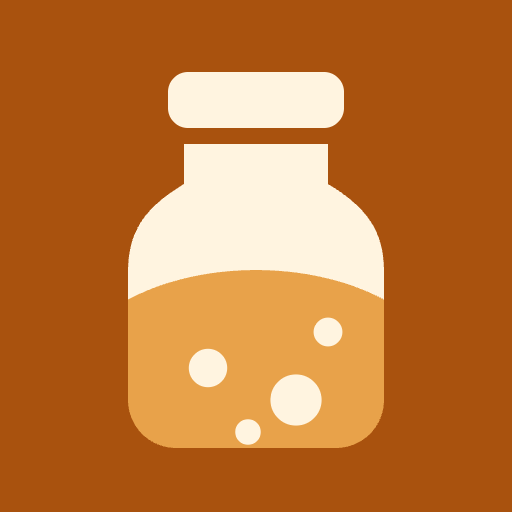
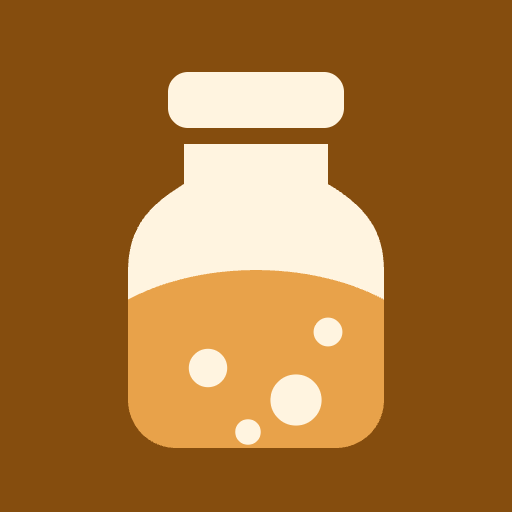
Restyle: Soft clay skin and accent

diff --git a/src/styles/global.css b/src/styles/global.css
@@ -1,5 +1,7 @@
 @import "tailwindcss" source(none);
 @source "../";
+/* Skins: one file per skin, switched by data-skin on <html>. */
+@import "./skin-clay.css";
 @custom-variant dark (&:where([data-theme="dark"], [data-theme="dark"] *));
 
 @theme inline {
@@ -11,6 +13,7 @@
   --color-ink: var(--ink);
   --color-muted: var(--muted);
   --color-line: var(--line);
+  --color-edge: var(--edge);
   --font-sans: ui-sans-serif, system-ui, -apple-system, "Segoe UI", Roboto, "Helvetica Neue", Arial, sans-serif;
   --font-serif: ui-serif, "Iowan Old Style", "Palatino Linotype", Palatino, Georgia, Cambria, serif;
   --font-mono: ui-monospace, "SF Mono", Menlo, Consolas, monospace;
@@ -23,6 +26,8 @@
   --ink: #1d1a16;
   --muted: #5f5850;
   --line: #e4dccb;
+  /* Control edges (inputs, buttons) need 3:1 against the page (WCAG 1.4.11). Card borders stay soft. */
+  --edge: #878c93;
   --brand-ink: color-mix(in oklab, var(--brand) 82%, black);
   --brand-soft: color-mix(in oklab, var(--brand) 10%, var(--paper));
 }
@@ -33,13 +38,14 @@
   --ink: #f0ece4;
   --muted: #aaa398;
   --line: #34302a;
+  --edge: #6b7078;
   --brand-ink: color-mix(in oklab, var(--brand) 55%, white);
   --brand-soft: color-mix(in oklab, var(--brand) 18%, var(--paper));
 }
 
 html { scroll-padding-top: 5rem; }
 body { background: var(--paper); color: var(--ink); font-family: var(--font-sans); -webkit-font-smoothing: antialiased; text-rendering: optimizeLegibility; }
-:focus-visible { outline: 2px solid var(--brand-ink); outline-offset: 2px; border-radius: 4px; }
+:focus-visible { outline: 3px solid var(--brand-ink); outline-offset: 2px; border-radius: 4px; }
 @media (prefers-reduced-motion: reduce) { * { transition: none !important; animation: none !important; scroll-behavior: auto !important; } }
 
 /* Long-form text: used by article and legal pages */
@@ -62,11 +68,11 @@ body { background: var(--paper); color: var(--ink); font-family: var(--font-sans
 
 .tiles { display: grid; grid-template-columns: repeat(3, 1fr); gap: 0.5rem; }
 @media (min-width: 40rem) { .tiles { grid-template-columns: repeat(5, 1fr); } }
-.tiles span { display: flex; min-height: 2.75rem; align-items: center; justify-content: center; border: 1px solid var(--line); border-radius: 0.75rem; background: var(--paper); font-weight: 600; font-variant-numeric: tabular-nums; }
+.tiles span { display: flex; min-height: 2.75rem; align-items: center; justify-content: center; border: 1px solid var(--edge); border-radius: 0.75rem; background: var(--paper); font-weight: 600; font-variant-numeric: tabular-nums; }
 .tiles input:checked + span { border-color: var(--brand); background: var(--brand); color: #fff; }
 .seg input:focus-visible + span, .tiles input:focus-visible + span { outline: 2px solid var(--brand-ink); outline-offset: 2px; }
 
-.field { display: block; width: 100%; min-height: 3rem; padding: 0 0.875rem; border: 1px solid var(--line); border-radius: 0.75rem; background: var(--paper); color: var(--ink); font-size: 1rem; font-variant-numeric: tabular-nums; }
+.field { display: block; width: 100%; min-height: 3rem; padding: 0 0.875rem; border: 1px solid var(--edge); border-radius: 0.75rem; background: var(--paper); color: var(--ink); font-size: 1rem; font-variant-numeric: tabular-nums; }
 .field:focus { outline: none; border-color: var(--brand); box-shadow: 0 0 0 3px color-mix(in oklab, var(--brand) 28%, transparent); }
 .field:disabled { opacity: 0.7; }
 .field[aria-invalid="true"] { border-color: #b91c1c; }
@@ -74,10 +80,10 @@ body { background: var(--paper); color: var(--ink); font-family: var(--font-sans
 input[type="number"] { -moz-appearance: textfield; appearance: textfield; }
 input[type="number"]::-webkit-outer-spin-button, input[type="number"]::-webkit-inner-spin-button { -webkit-appearance: none; margin: 0; }
 
-.chip { min-height: 2.75rem; padding: 0 0.875rem; border: 1px solid var(--line); border-radius: 999px; background: var(--paper); color: var(--ink); font-size: 0.875rem; font-weight: 600; }
+.chip { min-height: 2.75rem; padding: 0 0.875rem; border: 1px solid var(--edge); border-radius: 999px; background: var(--paper); color: var(--ink); font-size: 0.875rem; font-weight: 600; }
 .chip:hover { border-color: var(--brand); }
-.chip[aria-pressed="true"] { border-color: var(--brand); background: var(--brand-soft); color: var(--brand-ink); }
-.step-btn { display: inline-flex; width: 3rem; height: 3rem; flex: none; align-items: center; justify-content: center; border: 1px solid var(--line); border-radius: 0.75rem; background: var(--paper); color: var(--ink); font-size: 1.5rem; line-height: 1; }
+.chip[aria-pressed="true"] { border-color: var(--brand-ink); background: var(--brand-soft); color: var(--brand-ink); }
+.step-btn { display: inline-flex; width: 3rem; height: 3rem; flex: none; align-items: center; justify-content: center; border: 1px solid var(--edge); border-radius: 0.75rem; background: var(--paper); color: var(--ink); font-size: 1.5rem; line-height: 1; }
 .step-btn:hover { border-color: var(--brand); }
 .lbl { display: block; margin-bottom: 0.375rem; font-size: 0.875rem; font-weight: 650; }
 .hint { margin-top: 0.375rem; font-size: 0.875rem; color: var(--muted); }

diff --git a/src/styles/skin-clay.css b/src/styles/skin-clay.css
@@ -1,0 +1,57 @@
+/* Skin: Soft clay (warm, rounded, puffy cards). Active when <html data-skin="clay">.
+   Tokens first, then a few surface rules. Never put clay on data tables. */
+:root[data-skin="clay"] {
+  --font-sans: ui-rounded, "SF Pro Rounded", "Nunito", "Varela Round", ui-sans-serif, system-ui, -apple-system, "Segoe UI", Roboto, "Helvetica Neue", Arial, sans-serif;
+  --font-serif: var(--font-sans);
+  --radius-xl: 20px;
+  --radius-2xl: 30px;
+  --paper: color-mix(in oklab, var(--brand) 7%, #f5f3f1);
+  --card: color-mix(in oklab, var(--brand) 3%, #ffffff);
+  --ink: #1f1a1d;
+  --muted: #5c5559;
+  --line: color-mix(in oklab, var(--brand) 14%, #e4e0e2);
+  --edge: color-mix(in srgb, var(--brand) 30%, #8a8487);
+  --input-bg: color-mix(in oklab, var(--brand) 6%, #f1efed);
+  --brand-ink: color-mix(in oklab, var(--brand) 85%, black);
+  --brand-soft: color-mix(in oklab, var(--brand) 16%, #ffffff);
+  --card-shadow: 0 18px 40px -16px color-mix(in oklab, var(--brand) 35%, transparent), inset 0 -6px 0 color-mix(in oklab, var(--brand) 8%, transparent), inset 0 2px 0 #fff;
+  --panel-shadow: 0 8px 18px -10px color-mix(in oklab, var(--brand) 30%, transparent), inset 0 2px 0 #fff;
+  --result-shadow: 0 10px 22px -12px color-mix(in oklab, var(--brand) 45%, transparent), inset 0 -4px 0 color-mix(in oklab, var(--brand) 12%, transparent), inset 0 2px 0 rgb(255 255 255 / .9);
+  --btn-shadow: 0 6px 14px -6px color-mix(in oklab, var(--brand) 70%, transparent), inset 0 -3px 0 rgb(0 0 0 / .18), inset 0 2px 0 rgb(255 255 255 / .25);
+  --control-shadow: 0 4px 10px -6px color-mix(in oklab, var(--brand) 40%, transparent), inset 0 -2px 0 color-mix(in oklab, var(--brand) 10%, transparent), inset 0 1px 0 #fff;
+  --inset-shadow: inset 0 2px 5px color-mix(in oklab, var(--brand) 14%, transparent);
+}
+:root[data-skin="clay"][data-theme="dark"] {
+  --paper: color-mix(in oklab, var(--brand) 9%, #141215);
+  --card: color-mix(in oklab, var(--brand) 9%, #1f1c21);
+  --ink: #f1edf0;
+  --muted: #b4adb2;
+  --line: color-mix(in oklab, var(--brand) 14%, #33303a);
+  --edge: color-mix(in srgb, var(--brand) 20%, #8a8388);
+  --input-bg: color-mix(in oklab, var(--brand) 6%, #161418);
+  --brand-ink: color-mix(in oklab, var(--brand) 50%, white);
+  --brand-soft: color-mix(in oklab, var(--brand) 28%, #1f1c21);
+  --card-shadow: 0 18px 40px -16px rgb(0 0 0 / .7), inset 0 -6px 0 rgb(0 0 0 / .25), inset 0 1px 0 rgb(255 255 255 / .07);
+  --panel-shadow: 0 8px 18px -10px rgb(0 0 0 / .6), inset 0 1px 0 rgb(255 255 255 / .06);
+  --result-shadow: 0 10px 22px -12px rgb(0 0 0 / .7), inset 0 -4px 0 rgb(0 0 0 / .25), inset 0 1px 0 rgb(255 255 255 / .08);
+  --btn-shadow: 0 6px 14px -6px rgb(0 0 0 / .7), inset 0 -3px 0 rgb(0 0 0 / .25), inset 0 1px 0 rgb(255 255 255 / .2);
+  --control-shadow: 0 4px 10px -6px rgb(0 0 0 / .7), inset 0 1px 0 rgb(255 255 255 / .06);
+  --inset-shadow: inset 0 2px 5px rgb(0 0 0 / .45);
+}
+
+/* Surfaces */
+[data-skin="clay"] .rounded-2xl { border-color: transparent; box-shadow: var(--card-shadow); }
+[data-skin="clay"] fieldset.rounded-xl, [data-skin="clay"] details.rounded-xl { border-width: 0; background: color-mix(in oklab, var(--brand) 5%, var(--card)); box-shadow: var(--panel-shadow); }
+[data-skin="clay"] #result.rounded-2xl, [data-skin="clay"] .result-tile { background: var(--brand-soft); box-shadow: var(--result-shadow); }
+[data-skin="clay"] :is(input, select, textarea):not([type="radio"], [type="checkbox"], [type="file"], [type="range"]) {
+  background: var(--input-bg);
+  border-width: 1.5px;
+  border-radius: 14px !important;
+  box-shadow: var(--inset-shadow);
+}
+[data-skin="clay"] :is(button.border-line, button.border-edge, .btn-edge) { border-width: 1.5px; box-shadow: var(--control-shadow); }
+[data-skin="clay"] :is(button, .btn-solid)[class*="bg-brand"]:not([class*="bg-brand-soft"]) { box-shadow: var(--btn-shadow); }
+[data-skin="clay"] h1, [data-skin="clay"] h2 { letter-spacing: -0.02em; }
+[data-skin="clay"] h1 { font-weight: 800; }
+[data-skin="clay"] header img { box-shadow: var(--btn-shadow); }
+[data-skin="clay"] header { border-bottom-color: transparent; }

diff --git a/src/site.config.ts b/src/site.config.ts
@@ -13,7 +13,8 @@ export default {
   email: 'hello@starterfeedingcalculator.com',       // contact email (shown on Contact and Privacy pages)
   ga4: '',                            // GA4 measurement ID, e.g. 'G-XXXXXXXXXX'. Empty = Google Analytics off
   adsense: '',                        // AdSense publisher ID, e.g. 'ca-pub-1234567890123456'. Empty = ads off
-  brand: '#a9520e',                   // brand color (hex)
+  brand: '#854d0e',                   // brand color (hex)
+  skin: 'clay',                       // look: minimal, swiss, clay or retro
   locale: 'en-US',                    // BCP 47 language tag
   ogImage: '/og.png',                        // e.g. '/og.png' (1200x630 file in public/). Empty = no image
   category: 'LifestyleApplication',   // schema.org applicationCategory
